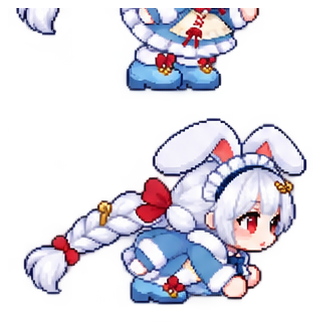
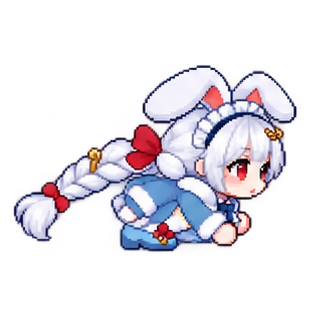
Add files via upload

diff --git a/styles.css b/styles.css
@@ -1,14 +1,14 @@
 :root {
-  --bg: #11131a;
-  --panel: #1b1f2a;
-  --panel-2: #242938;
-  --line: #3b4358;
-  --text: #f8f5e8;
-  --muted: #aeb7c8;
-  --accent: #ffd84d;
-  --accent-2: #7ee787;
-  --danger: #ff6b6b;
-  --shadow: 0 18px 50px rgba(0, 0, 0, 0.3);
+  --bg: #eaf4ff;
+  --panel: #fffaf8;
+  --panel-2: #eef5ff;
+  --line: #9db2cf;
+  --text: #48556f;
+  --muted: #7083a1;
+  --accent: #f3d560;
+  --accent-2: #88ddcf;
+  --danger: #f17895;
+  --shadow: 0 18px 44px rgba(117, 143, 183, 0.22);
 }
 
 * { box-sizing: border-box; }
@@ -18,8 +18,8 @@ html, body { margin: 0; min-height: 100%; background: var(--bg); color: var(--te
 body {
   font-family: "Hiragino Kaku Gothic ProN", "Yu Gothic", system-ui, sans-serif;
   background-image:
-    linear-gradient(rgba(255,255,255,.018) 1px, transparent 1px),
-    linear-gradient(90deg, rgba(255,255,255,.018) 1px, transparent 1px);
+    linear-gradient(rgba(134, 164, 204, .12) 1px, transparent 1px),
+    linear-gradient(90deg, rgba(134, 164, 204, .12) 1px, transparent 1px);
   background-size: 24px 24px;
 }
 
@@ -77,7 +77,7 @@ button { cursor: pointer; }
 .login-form label { display: block; margin-bottom: 8px; font-weight: 800; }
 .login-row { display: flex; gap: 10px; }
 .login-row input {
-  flex: 1; min-width: 0; padding: 14px 16px; color: var(--text); background: #10131b;
+  flex: 1; min-width: 0; padding: 14px 16px; color: var(--text); background: #ffffff;
   border: 2px solid var(--line); outline: none;
 }
 .login-row input:focus { border-color: var(--accent); }
@@ -106,11 +106,11 @@ button { cursor: pointer; }
 .hud-item span { display: block; color: var(--muted); font-size: 11px; font-weight: 900; letter-spacing: .12em; }
 .hud-item strong { font-size: 22px; }
 
-.game-frame { position: relative; overflow: hidden; aspect-ratio: 16 / 9; background: #8bd3dd; }
+.game-frame { position: relative; overflow: hidden; aspect-ratio: 16 / 9; background: #dff1ff; }
 #game-canvas { display: block; width: 100%; height: 100%; image-rendering: pixelated; touch-action: none; }
 
-.overlay-card, .upgrade-overlay { position: absolute; inset: 0; display: grid; place-items: center; padding: 12px; background: rgba(8,10,15,.56); overflow: auto; }
-.overlay-inner { width: min(440px, 100%); max-height: calc(100% - 8px); overflow-y: auto; padding: 14px 18px 16px; text-align: center; background: rgba(27,31,42,.96); border: 3px solid var(--line); box-shadow: 8px 8px 0 rgba(0,0,0,.55); }
+.overlay-card, .upgrade-overlay { position: absolute; inset: 0; display: grid; place-items: center; padding: 12px; background: rgba(201, 220, 244, .55); overflow: auto; }
+.overlay-inner { width: min(440px, 100%); max-height: calc(100% - 8px); overflow-y: auto; padding: 14px 18px 16px; text-align: center; background: rgba(255, 251, 247, .97); border: 3px solid var(--line); box-shadow: 8px 8px 0 rgba(146, 169, 201, .35); }
 .overlay-inner h2, .upgrade-box h2 { margin: 2px 0 6px; font-size: clamp(24px, 4vw, 34px); }
 .overlay-character {
   display: block;
@@ -118,7 +118,7 @@ button { cursor: pointer; }
   height: auto;
   margin: 2px auto 0;
   image-rendering: pixelated;
-  filter: drop-shadow(8px 10px 0 rgba(0,0,0,.25));
+  filter: drop-shadow(8px 10px 0 rgba(112, 146, 188, .22));
   animation: hoverBob 1.8s ease-in-out infinite;
 }
 .overlay-logo {
@@ -127,21 +127,21 @@ button { cursor: pointer; }
   gap: 8px;
   padding: 5px 12px;
   margin-bottom: 4px;
-  background: rgba(255,255,255,.08);
+  background: rgba(216, 235, 255, .8);
   border: 2px solid rgba(255,243,176,.55);
   border-radius: 999px;
   font-weight: 1000;
 }
 .overlay-logo .logo-text {
   font-size: clamp(20px, 3vw, 30px);
-  color: #ffe7f2;
-  text-shadow: 2px 2px 0 rgba(0,0,0,.35);
+  color: #6a657d;
+  text-shadow: 1px 1px 0 rgba(255,255,255,.85);
 }
-.overlay-note { margin: 4px 0 0; color: #ffe7f2; font-size: 13px; font-weight: 800; }
+.overlay-note { margin: 4px 0 0; color: #7a86a6; font-size: 13px; font-weight: 800; }
 .overlay-start .overlay-inner { border-color: #f5d27f; }
-.overlay-gameover .overlay-inner { border-color: #ff8ca7; background: rgba(41, 23, 34, .95); }
+.overlay-gameover .overlay-inner { border-color: #f3a6bb; background: rgba(255, 245, 248, .97); }
 .overlay-gameover .overlay-character { animation: softBounce .95s steps(2) infinite; }
-.overlay-gameover .overlay-note { color: #ffd6de; }
+.overlay-gameover .overlay-note { color: #90748d; }
 @keyframes hoverBob {
   0%, 100% { transform: translateY(0); }
   50% { transform: translateY(-6px); }
@@ -152,7 +152,7 @@ button { cursor: pointer; }
 }
 .control-help { display: flex; flex-wrap: wrap; justify-content: center; gap: 4px 12px; margin: 8px 0 10px; color: var(--muted); font-size: 12px; font-weight: 800; }
 
-.upgrade-overlay { background: rgba(8,10,15,.82); z-index: 5; }
+.upgrade-overlay { background: rgba(205, 222, 243, .82); z-index: 5; }
 .upgrade-box { width: min(860px, 100%); padding: 26px; background: var(--panel); border: 3px solid var(--accent); box-shadow: 10px 10px 0 #000; }
 .upgrade-cards { display: grid; grid-template-columns: repeat(3, 1fr); gap: 14px; margin-top: 20px; }
 .upgrade-card { min-height: 180px; padding: 18px; text-align: left; background: #f7efd2; }
@@ -162,7 +162,7 @@ button { cursor: pointer; }
 
 .mobile-controls { display: none; grid-template-columns: 1fr 1fr; gap: 12px; }
 .control-button { min-height: 64px; font-size: 18px; }
-.duck-button { background: #8bd3dd; }
+.duck-button { background: #bde5f3; }
 
 .build-panel { display: flex; align-items: center; gap: 20px; padding: 14px 16px; }
 .build-panel h3 { margin: 0; }

diff --git a/game.js b/game.js
@@ -52,8 +52,8 @@
   const PLAYER_SPRITE = {
     cols: 4,
     rows: 4,
-    cellW: 330,
-    cellH: 330,
+    cellW: 317,
+    cellH: 317,
     runFrames: [0, 1, 2, 3, 4, 5, 6, 7],
     jumpFrames: [8, 9, 10, 11],
     crouchFrames: [12, 13, 14, 15],
@@ -957,9 +957,9 @@
     }
 
     if (!p.onGround) {
-      if (p.vy < -260) return PLAYER_SPRITE.jumpFrames[0];
-      if (p.vy < -70) return PLAYER_SPRITE.jumpFrames[1];
-      if (p.vy < 150) return PLAYER_SPRITE.jumpFrames[2];
+      if (p.vy < -320) return PLAYER_SPRITE.jumpFrames[0];
+      if (p.vy < -80) return PLAYER_SPRITE.jumpFrames[1];
+      if (p.vy < 180) return PLAYER_SPRITE.jumpFrames[2];
       return PLAYER_SPRITE.jumpFrames[3];
     }
 

diff --git a/index.html b/index.html
@@ -36,7 +36,7 @@
         <form id="login-form" class="login-form">
           <label for="username-input">プレイヤー名</label>
           <div class="login-row">
-            <input id="username-input" type="text" maxlength="16" minlength="1" placeholder="例：羽餅ほげ" autocomplete="nickname" required />
+            <input id="username-input" type="text" maxlength="16" minlength="1" placeholder="例：けんたん" autocomplete="nickname" required />
             <button class="primary-button" type="submit">この名前で遊ぶ</button>
           </div>
           <p id="login-error" class="error-text" role="alert"></p>

diff --git a/README.md b/README.md
@@ -23,6 +23,7 @@
 - 待機モーション / しゃがみ専用アニメ / ジャンプ専用コマを実装
 - ゲームオーバー時のキャラ演出を追加
 - タイトルロゴをキャラに合わせてかわいく調整
+- 画面配色をキャラクターに合わせたパステル基調へ調整
 - npm / Node / ビルド作業不要
 - GitHub Pagesでそのまま公開可能
 
